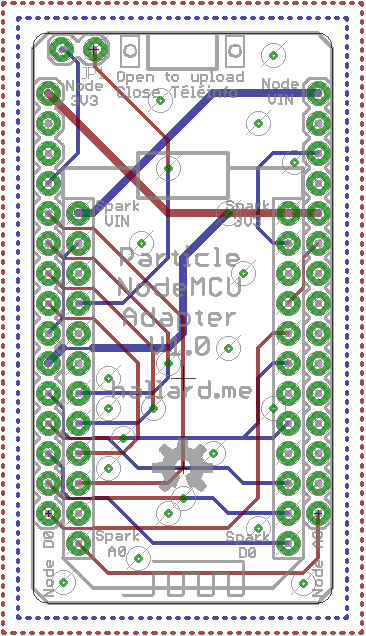
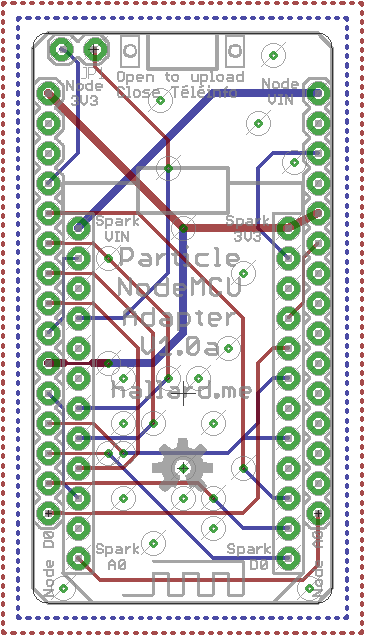
Fixed GPIO now version 1.0a

Changed region(s): [[0.0902, 0.1195, 0.9016, 0.956], [0.1202, 0.0597, 0.3005, 0.0896], [0.571, 0.4481, 0.6311, 0.478]]

diff --git a/README.md b/README.md
@@ -1,19 +1,24 @@
 Particle Spark/Photon to NodeMCU Adapter
 ========================================
 
-This adapter is used to put in place of a Spark/Photon a NodeMCU board with ESP8266 I needed for a specific French [project][3]. I needed SPI for RFM69 Module with IRQ on GPIO2.
+This adapter is used to put in place of a Spark/Photon a NodeMCU board with ESP8266 I needed for a specific French [project][3]. I needed SPI for RFM69 Module with IRQ on ~~GPIO2~~ GPIO15 and SS on GPIO2 (see below why).
 I choosed NodeMCU boards instead of ESP8266 because NodeMCU has all I needed on board, such as pullups, switches, USB power, 3/3V regulator, USB2Serial...
 
 Since ESP8266 has less pin than Particle boards, only "classic" have been connected
 
-- SPI Interface (GPIO12 to 15)
+- SPI Interface (GPIO12 to 14) GPIO15 is used for RFM69 IRQ
 - I2C Interface (GPIO14 and GPIO5)
 - Serial (GPIO1 and GPIO3)
 - GPIO0 as free I/O (Flash button on NodeMCU)
-- GPIO2 as free I/O 
+- GPIO2 is used as Chip Select (SS) for RFM69
 - GPIO16 as free I/O (LED and KEY on NodeMCU)
 
-*Boards are in progress, I did not tested them yet, I will update as soon has I got them in my hands. Use at your own risks*
+I discovered a major issue with 1st design, in fact ESP8266 to boot correctly needs some pins at defined level, GPIO15 must be LOW and GPIO2 must be HIGH.
+Unfortunatlly with RFM69 connected as IRQ to GPIO2 and SS to GPIO15 it does not boot because RF69 pull it DIO IRQ to LOW, making GPIO2 LOW and ESP8266 not booting.
+The fix is to reverse the wiring, connect IRQ to GPIO15 and SS to GPIO2 (and do according changes in the code). 
+This page has been updated to reflect the changes and the PCB also, it's now V1.0a.
+
+*Boards are still in progress, I did not tested them yet, I will update as soon has I got them in my hands. Use at your own risks*
 
 Detailed Description
 ====================
@@ -27,11 +32,17 @@ Look at the schematics for more informations.
 <img src="https://raw.githubusercontent.com/hallard/Particle2NodeMCU/master/Particle2NodeMCU-top.png" alt="Top" width="40%" height="40%">&nbsp;
 <img src="https://raw.githubusercontent.com/hallard/Particle2NodeMCU/master/Particle2NodeMCU-bottom.png" alt="Bottom" width="40%" height="40%">&nbsp; 
 
-You can order the PCB of this board at [OSHPARK][4]
+If you have old version V1.0 PCB and a RFM69 attached, here the fix, cut line in red and solder wire on green line.
+<img src="https://raw.githubusercontent.com/hallard/Particle2NodeMCU/master/Particle2NodeMCU-top-fix-gpio.png" alt="Top" width="30%" height="30%">&nbsp;
+<img src="https://raw.githubusercontent.com/hallard/Particle2NodeMCU/master/Particle2NodeMCU-bottom-fix-gpio.png" alt="Bottom" width="30%" height="30%">&nbsp; 
+
+
+~~You can order the PCB of this board at [OSHPARK][4]~~ Old version, take care !!
 
 ### Assembled boards
 
 I'm currently waiting for boards from OSHPARK
+Boards arrived, I found one major issue with current wiring
 
 ##License
 
